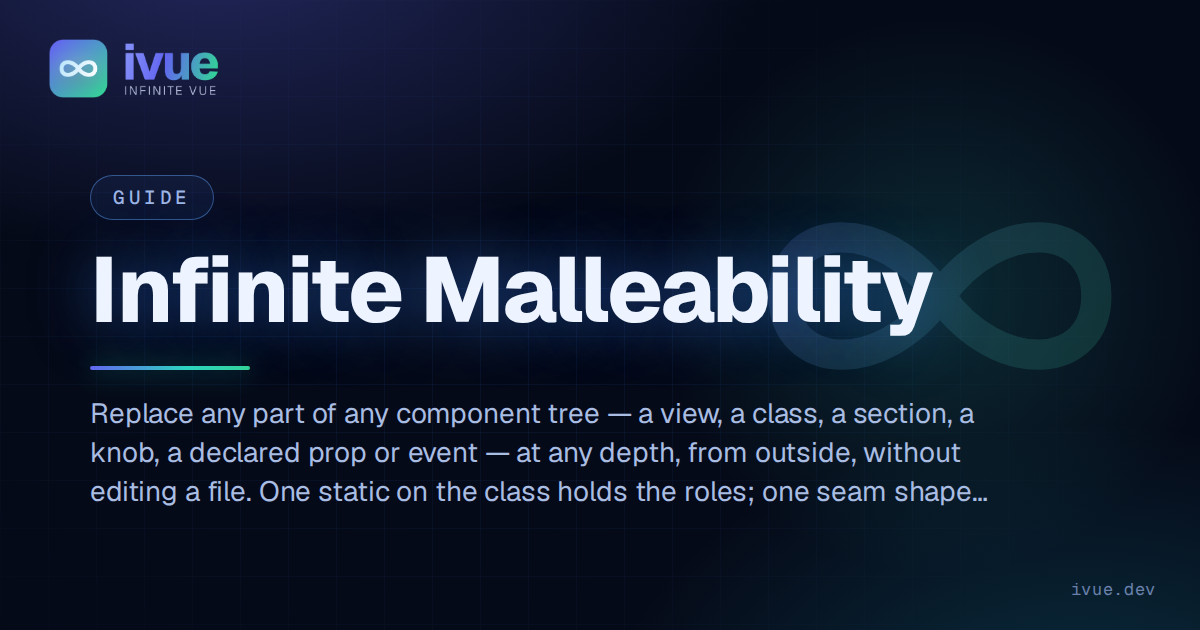
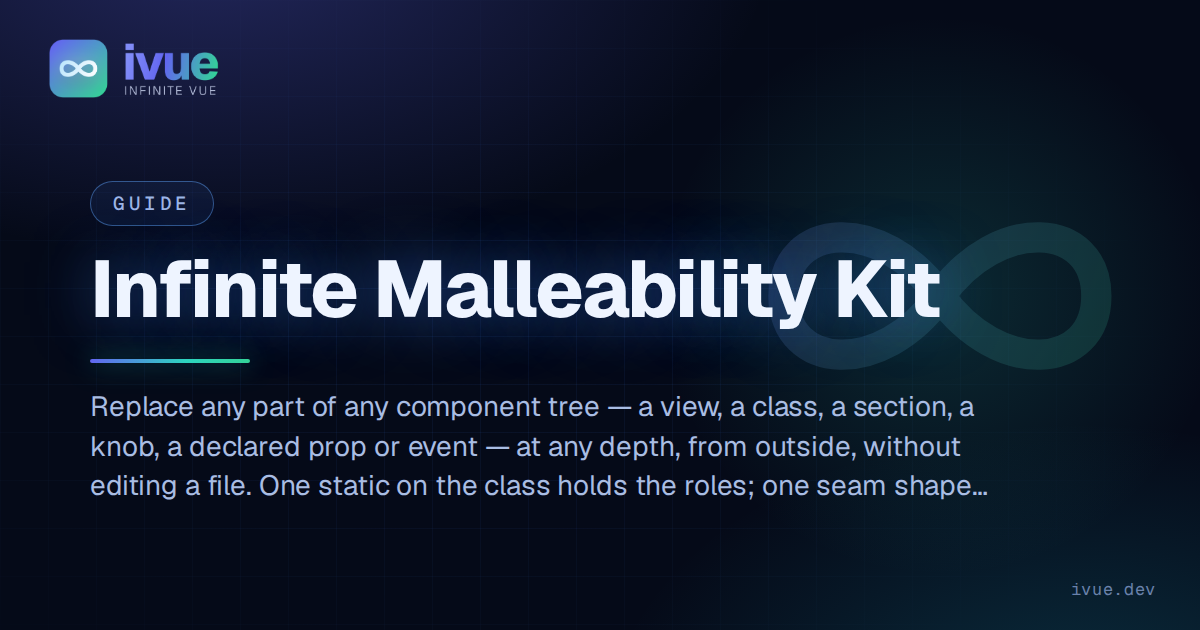
docs: Infinite Malleability is the Infinite Malleability Kit, and the AI chat says it is built with it
- The guide page, its two sidebar entries and the code comments that
  name it use the full name. Its banner is re-rendered with the title.
- The AI chat example page says the chat is built with the kit and links
  the kit page; the kit page links back to the chat as a whole
  application built with it.
- Both scroller posts name the thread as the AI chat example, built with
  the Infinite Malleability Kit, and link both pages.

diff --git a/docs_v2/.vitepress/config.ts b/docs_v2/.vitepress/config.ts
@@ -155,7 +155,7 @@ export default defineConfig({
             new URL('../../examples/playground/src/examples', import.meta.url),
           ),
         },
-        // The Infinite Malleability page mounts the kit's fixture tree — the
+        // The Infinite Malleability Kit page mounts the kit's fixture tree — the
         // same files its source tabs show.
         {
           find: '@kit',
@@ -723,7 +723,7 @@ export default defineConfig({
               { text: 'Static() — Capability Classes', link: '/guide/static' },
               { text: 'Caches, Registries & self', link: '/guide/caches-and-registries' },
               { text: 'Backend ivue', link: '/guide/backend' },
-              { text: 'Infinite Malleability', link: '/guide/malleability' },
+              { text: 'Infinite Malleability Kit', link: '/guide/malleability' },
             ],
           },
           {
@@ -902,7 +902,7 @@ export default defineConfig({
             { text: 'Static() — Capability Classes', link: '/guide/static' },
             { text: 'Caches, Registries & self', link: '/guide/caches-and-registries' },
             { text: 'Backend ivue', link: '/guide/backend' },
-            { text: 'Infinite Malleability', link: '/guide/malleability' },
+            { text: 'Infinite Malleability Kit', link: '/guide/malleability' },
           ],
         },
         {

diff --git a/docs_v2/.vitepress/theme/components/examples/ExampleMalleability.ts b/docs_v2/.vitepress/theme/components/examples/ExampleMalleability.ts
@@ -11,7 +11,7 @@ import { HljsCode } from './malleability/HljsCode';
 import TabHeadView from './malleability/TabHead.vue';
 import StatsFootView from './malleability/StatsFoot.vue';
 
-// The live proof for the Infinite Malleability page: one shipped tree — a
+// The live proof for the Infinite Malleability Kit page: one shipped tree — a
 // gallery of snippet cards, each a head, a shiki-coloured code block and a
 // foot — and four overrides written as data, each a `Kit.Class.derive`
 // over the shipped root. The reader picks an override; the same

diff --git a/docs_v2/guide/malleability.md b/docs_v2/guide/malleability.md
@@ -1,5 +1,5 @@
 ---
-title: Infinite Malleability
+title: Infinite Malleability Kit
 description: Replace any part of any component tree — a view, a class, a section, a knob, a declared prop or event — at any depth, from outside, without editing a file. One static on the class holds the roles; one seam shape passes one entry; an override is a subclass written as data.
 relatedPosts: [fix-the-scroller-never-open-the-selection, runtime-props-all-along, ship-the-variant-keep-the-tuning, the-options-api-everyone-wanted]
 ---
@@ -9,7 +9,7 @@ import LazyCodeGroup from '../.vitepress/theme/components/LazyCodeGroup.vue'
 import ExampleMalleability from '../.vitepress/theme/components/examples/ExampleMalleability.vue'
 </script>
 
-# Infinite Malleability
+# Infinite Malleability Kit
 
 Replace any part of any component tree from outside, at any depth,
 without editing a file. The view of a role, the class behind it, a
@@ -25,6 +25,10 @@ bar, the colour engine swaps from shiki to highlight.js, and a
 configuration layer opens the theme, the line numbers and the fold as
 settings the entry turns. Nothing is passed down but the entry at each
 seam.
+
+The [AI chat example](/examples/ai-chat) is a whole application built
+with the kit: the thread, the composer, the index and every message part
+are roles you can replace the same way.
 
 <ExampleMalleability />
 
@@ -47,8 +51,8 @@ else.
 ## The four moves
 
 ivue components are already [classes with their contract as data](/guide/extensible-components).
-Infinite Malleability adds one more piece of data and one rule for
-templates.
+The Infinite Malleability Kit adds one more piece of data and one rule
+for templates.
 
 The samples below are from the spec's tree, whose files sit under
 "The source" at the end; the demo's tree has the same shape with a

diff --git a/docs_v2/blog/one-question-deleted-537-lines.md b/docs_v2/blog/one-question-deleted-537-lines.md
@@ -43,8 +43,9 @@ thread. It has to mount rows before you reach them, and it has to measure
 each one after it appears, because a chat message is as tall as its
 text. The goal: a reader on a phone cannot tell the difference.
 
-The thread below is the test bed. It is a real Claude Code session with
-10,350 messages. Every message is a row. Content is fetched a page at a
+The thread below is the test bed: the [AI chat example](/examples/ai-chat),
+built with the [Infinite Malleability Kit](/guide/malleability). It is a
+real Claude Code session with 10,350 messages. Every message is a row. Content is fetched a page at a
 time as the window reaches it. Scroll it on a phone.
 
 <ClientOnly>

diff --git a/docs_v2/blog/subpixel-perfect-scrolling.md b/docs_v2/blog/subpixel-perfect-scrolling.md
@@ -37,8 +37,10 @@ tell the 2 apart. Each item has a number. Both phones, an iPhone and a
 Galaxy S22 Ultra, were judged by hand against a plain browser scroll box
 until the answer was "same".
 
-The thread below is where it was judged: a real Claude Code session,
-10,350 messages, content fetched a page at a time as you reach it.
+The thread below is where it was judged: the
+[AI chat example](/examples/ai-chat), built with the
+[Infinite Malleability Kit](/guide/malleability). It is a real Claude Code
+session, 10,350 messages, content fetched a page at a time as you reach it.
 
 <ClientOnly>
   <ExampleAiChat />

diff --git a/docs_v2/examples/ai-chat.md b/docs_v2/examples/ai-chat.md
@@ -17,8 +17,10 @@ A real Claude Code session: 10,350 messages. Only the few rows you can
 see are in the page, and a message's text loads when you scroll to it.
 The strip above the chat counts both as you go.
 
-Every part is an ivue class, on the same scroller as the
-[million-row example](/examples/virtual-scroller).
+The chat is built with the
+[Infinite Malleability Kit](/guide/malleability): every part is an ivue
+class you can replace from outside, without editing a file. It runs on
+the same scroller as the [million-row example](/examples/virtual-scroller).
 
 <ClientOnly>
   <ExampleAiChat />
